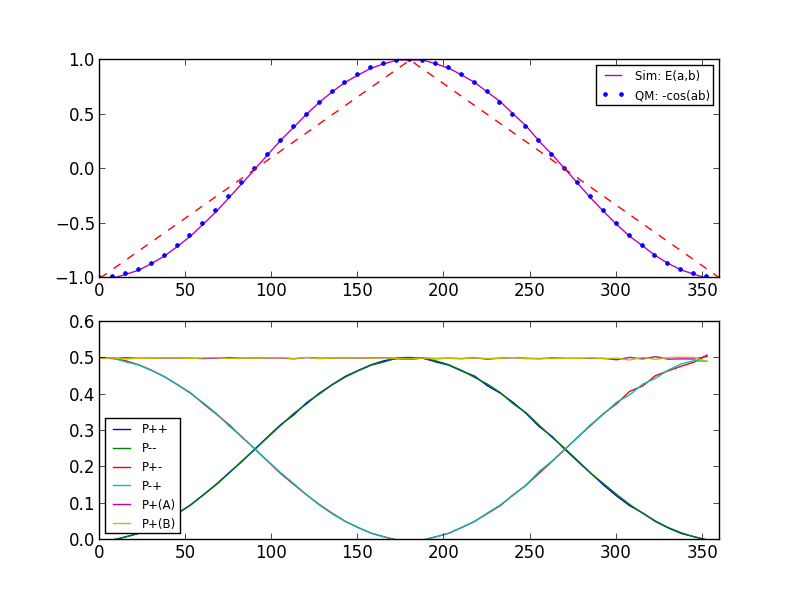
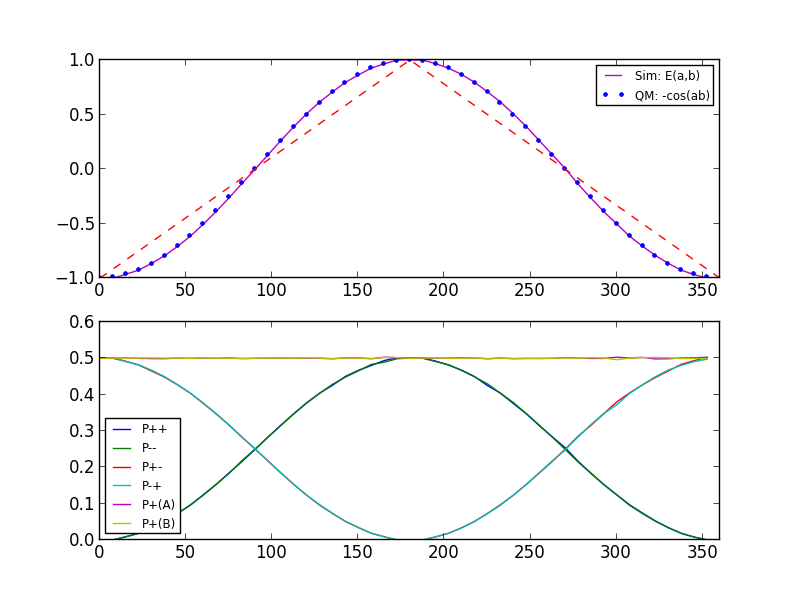
- fixed typos, and clarified the filter function

diff --git a/epr.py b/epr.py
@@ -11,7 +11,7 @@ rcParams['legend.isaxes'] = False
 rcParams['figure.facecolor'] = 'white'
 rcParams['figure.edgecolor'] = 'white'
 
-NUM_ITERATIONS = 20000000
+NUM_ITERATIONS = 50000000
 ANGLE_RESOLUTION = 7.5
 
 def idx(x):
@@ -63,11 +63,11 @@ class Source(object):
         self.phase = self.spin*2*numpy.pi
         self.n = 2*self.spin
         self.angles = numpy.radians(numpy.arange(0, 360.0, ANGLE_RESOLUTION))
-        self.ps = numpy.sqrt(2)*numpy.linspace(0, numpy.pi/4, 1000)**(numpy.pi/2)
+        self.ps = numpy.sqrt(2)*numpy.linspace(0, numpy.pi/4, 1000)**(numpy.pi/2) # best
         
     def emit(self):
-        e = numpy.random.choice(self.angles) # numpy.random.uniform(0.0,2*numpy.pi)
-        p = numpy.random.choice(self.ps)  #numpy.random.uniform(0, numpy.pi/4)
+        e = numpy.random.choice(self.angles)
+        p = numpy.random.choice(self.ps)  
         lp = (e, p, self.n)  # Left particle        
         rp = (e+self.phase, p, self.n)  # Right particle
         return lp, rp
@@ -147,8 +147,8 @@ class Simulation(object):
         sl_bp = (bob[:,-1] == +1.0)
         sl_am = (alice[:,-1] == -1.0)
         sl_bm = (bob[:,-1] == -1.0)
-        sl_sd = (numpy.abs(alice[:,-1])+numpy.abs(bob[:,-1]) > 0.0)
-        sl_dd = (alice[:,-1]*bob[:,-1] != 0.0) 
+        sl_sd = (numpy.abs(alice[:,-1])+numpy.abs(bob[:,-1]) > 0.0) # single detections
+        sl_dd = (alice[:,-1]*bob[:,-1] != 0.0)                      # double detections (coincidences)
         
         pp = abdeg[sl_pp]
         mm = abdeg[sl_mm]
@@ -170,22 +170,22 @@ class Simulation(object):
         coinc = numpy.zeros_like(x)
         
         for i, a in enumerate(x):
-            lpp = len(pp[(pp==a)]) # ++
-            lmm = len(mm[(mm==a)]) # --
-            lpm = len(pm[(pm==a)]) # -+
-            lmp = len(mp[(mp==a)]) # +-
-            lap = len(ap[ap==a])
-            lbp = len(bp[bp==a])
-            Na = len(ap[ap==a]) +len(am[am==a])
-            Nb = len(bp[bp==a]) + len(bm[bm==a])
-            tot = lpp + lmm + lpm + lmp
+            lpp = (pp==a).sum() # ++
+            lmm = (mm==a).sum() # --
+            lpm = (pm==a).sum() # -+
+            lmp = (mp==a).sum() # +-
+            lap = (ap==a).sum() # A+
+            lbp = (bp==a).sum() # B+
+            Na = (ap==a).sum() + (am==a).sum()
+            Nb = (bp==a).sum() + (bm==a).sum()
+            tot = float(lpp + lmm + lpm + lmp)
             sel = (abdeg == a)
-            coinc[i] = float(len(abdeg[sel & sl_dd]))/len(abdeg[sel & sl_sd])
+            coinc[i] = float((sel & sl_dd).sum())/(sel & sl_sd).sum()
             if tot != 0.0:
-                ypp[i] = float(lpp)/tot
-                ymm[i] = float(lmm)/tot
-                ypm[i] = float(lpm)/tot
-                ymp[i] = float(lmp)/tot
+                ypp[i] = lpp/tot
+                ymm[i] = lmm/tot
+                ypm[i] = lpm/tot
+                ymp[i] = lmp/tot
             
             Eab[i] = ypp[i] + ymm[i] - ypm[i] - ymp[i]
             # single sided +/- outcome probabilities
@@ -200,8 +200,8 @@ class Simulation(object):
         b = val(22.5)
         bp = val(67.5)
         
-        sl_same = (adeg == bdeg) & (alice[:, 1]*bob[:,1] != 0.0)
-        sl_opp = (numpy.abs(adeg - bdeg) == val(180.0)) & (alice[:, 1]*bob[:,1] != 0.0)
+        sl_same = (adeg == bdeg) & sl_dd
+        sl_opp = (numpy.abs(adeg - bdeg) == val(180.0)) & sl_dd
         ysame = (alice[sl_same, 1] * bob[sl_same,1]).mean()
         yopp = (alice[sl_opp, 1] *  bob[sl_opp, 1]).mean()
         
@@ -221,7 +221,8 @@ class Simulation(object):
         print "Same Angle <AB> = %+0.2f, QM = -1.00" % (ysame)
         print "Oppo Angle <AB> = %+0.2f, QM = +1.00" % (yopp)
         print "CHSH: < 2.0, MODEL: %0.3f, QM: %0.3f" % (abs(CHSH[0]-CHSH[1]+CHSH[2]+CHSH[3]), abs(QM[0]-QM[1]+QM[2]+QM[3]))
-            
+        print "Efficiency:  %0.1f %%" % (100.0*sl_dd.sum()/sl_sd.sum())  
+          
         gs = gridspec.GridSpec(2,1)
         ax1 = plt.subplot(gs[0])    
         ax1.plot(x, Eab, 'm-', label='Sim: E(a,b)')

diff --git a/README.md b/README.md
@@ -9,40 +9,40 @@ The simulation consists of a Source object, generating particle pairs, to be ana
 
         λ = {e, p, s},  e ∈ [0..2π), p ∈ [0..π/4), s = {1/2, 1}
         e' = e + 2πs
-        A(a,λ) = sign(-1ⁿ cos n(a − e)) if ½|cos n(a − e)|² > pᵏ, 0 otherwise
-        B(b,λ) = sign(-1ⁿ cos n(a − e')) if ½|cos n(a − e)|² > pᵏ, 0 otherwise
-        where n = 2s, k=π
+        A(a,λ) = sign(-1ⁿ cos n(a − e)) if |cos n(a − e)| > √2pᵏ, 0 otherwise
+        B(b,λ) = sign(-1ⁿ cos n(b − e')) if |cos n(b − e)| > √pᵏ, 0 otherwise
+        where n = 2s, k=π/2
 
 1) The Source, and Particles:
 
 Simply generates two tuples each with 3 parameters corresponding to the "hidden variables".
-The source has a single parameter `spin (s)` which determine the type of particles produced. For spin 1/2 particles such as electrons, s=1/2 for photons s=1.
+The source has a single parameter `spin (s)` which determines the type of particles produced. For spin 1/2 particles such as electrons, s=1/2 for photons s=1.
 
 A particle pair is generated as follows:  
 
     `e` - an angle common to both particles selected randomly each time from the range [0, 2pi)
     `p` - a property common to both particles selected randomly from [0, π/4)
     
-The left particle is the tuple `(e, p, s)`
-The right particle is the tuple `(e + 2πs, p, s)`
+The left particle is the tuple `(e, p, n)`
+The right particle is the tuple `(e + 2πs, p, n)`
 
 2) The Detection Stations:  
 
 Two stations exist named `Alice` and `Bob`. Alice will measure the left particle, while Bob will measure the right particle.
 
-The detection proceeds as follows:  
+The detection at each station proceeds as follows:  
 
-    - A random angle `a` is selected in the range [0, 2pi). This is the detector setting.
+    - A random angle `x` is selected in the range [0, 2π). This is the detector setting.
     - A transformed value `C` is calculated using the particle properties and 
-      the detector setting `a` as `C = -1ⁿ cos n(a − e)`. The sign of this value, will 
+      the detector setting `x` as `C = -1ⁿ cos n(x − e)`. The sign of this value, will 
       ultimately determine which channel the particle will be detected at; `+1` or `-1`
-    - A threshold value C' is then calculate from C as:
-      C' = ½|cos n(a − e)|² > p. This value together with the hidden 
-      particle property `p`, will determine if the particle goes through the filter. 
-      If C' > p the particle goes through. Every particle which goes through the 
+    - The absolute value of `C` together with the particle property `p` will determine 
+      if the particle goes through the filter.
+      If `|C|` > √p^π/2 the particle goes through. Every particle which goes through the 
       filter is detected by one of the two channels.
-    - The setting `a` and the output (`+1`, `-1`, or `0`) are registered locally at each station
-      and saved in separate files at the end of the simulation.
+    - The setting `x` and the output (`+1`, `-1`, or `0`) are registered locally at each station
+      and saved in separate files at the end of the simulation. Each station is not aware of and 
+      uses no information from or about the other station. 
       
 
 Statistical Analysis:
